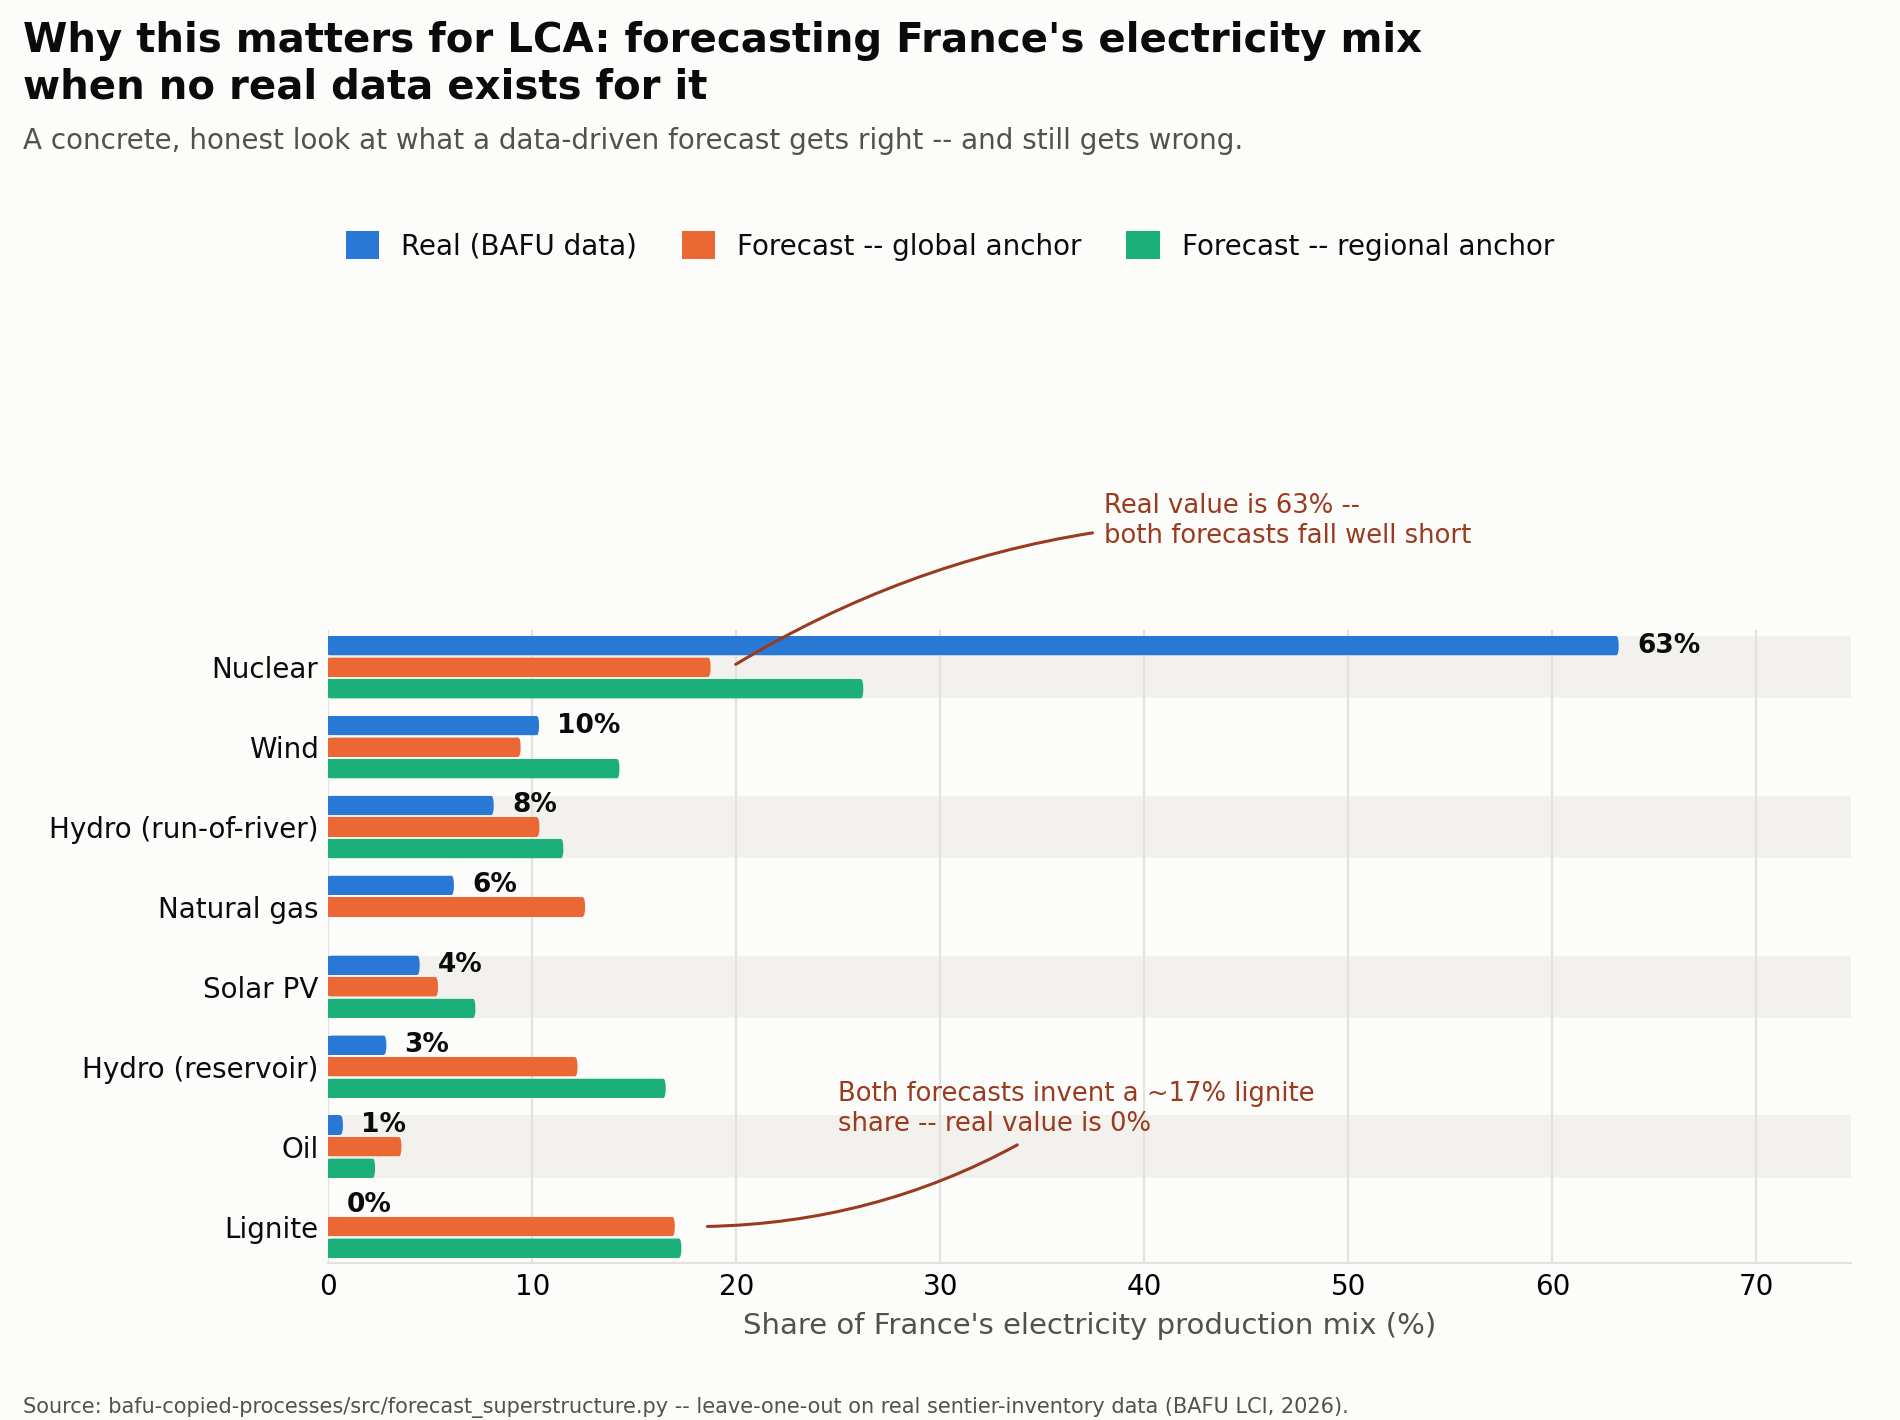
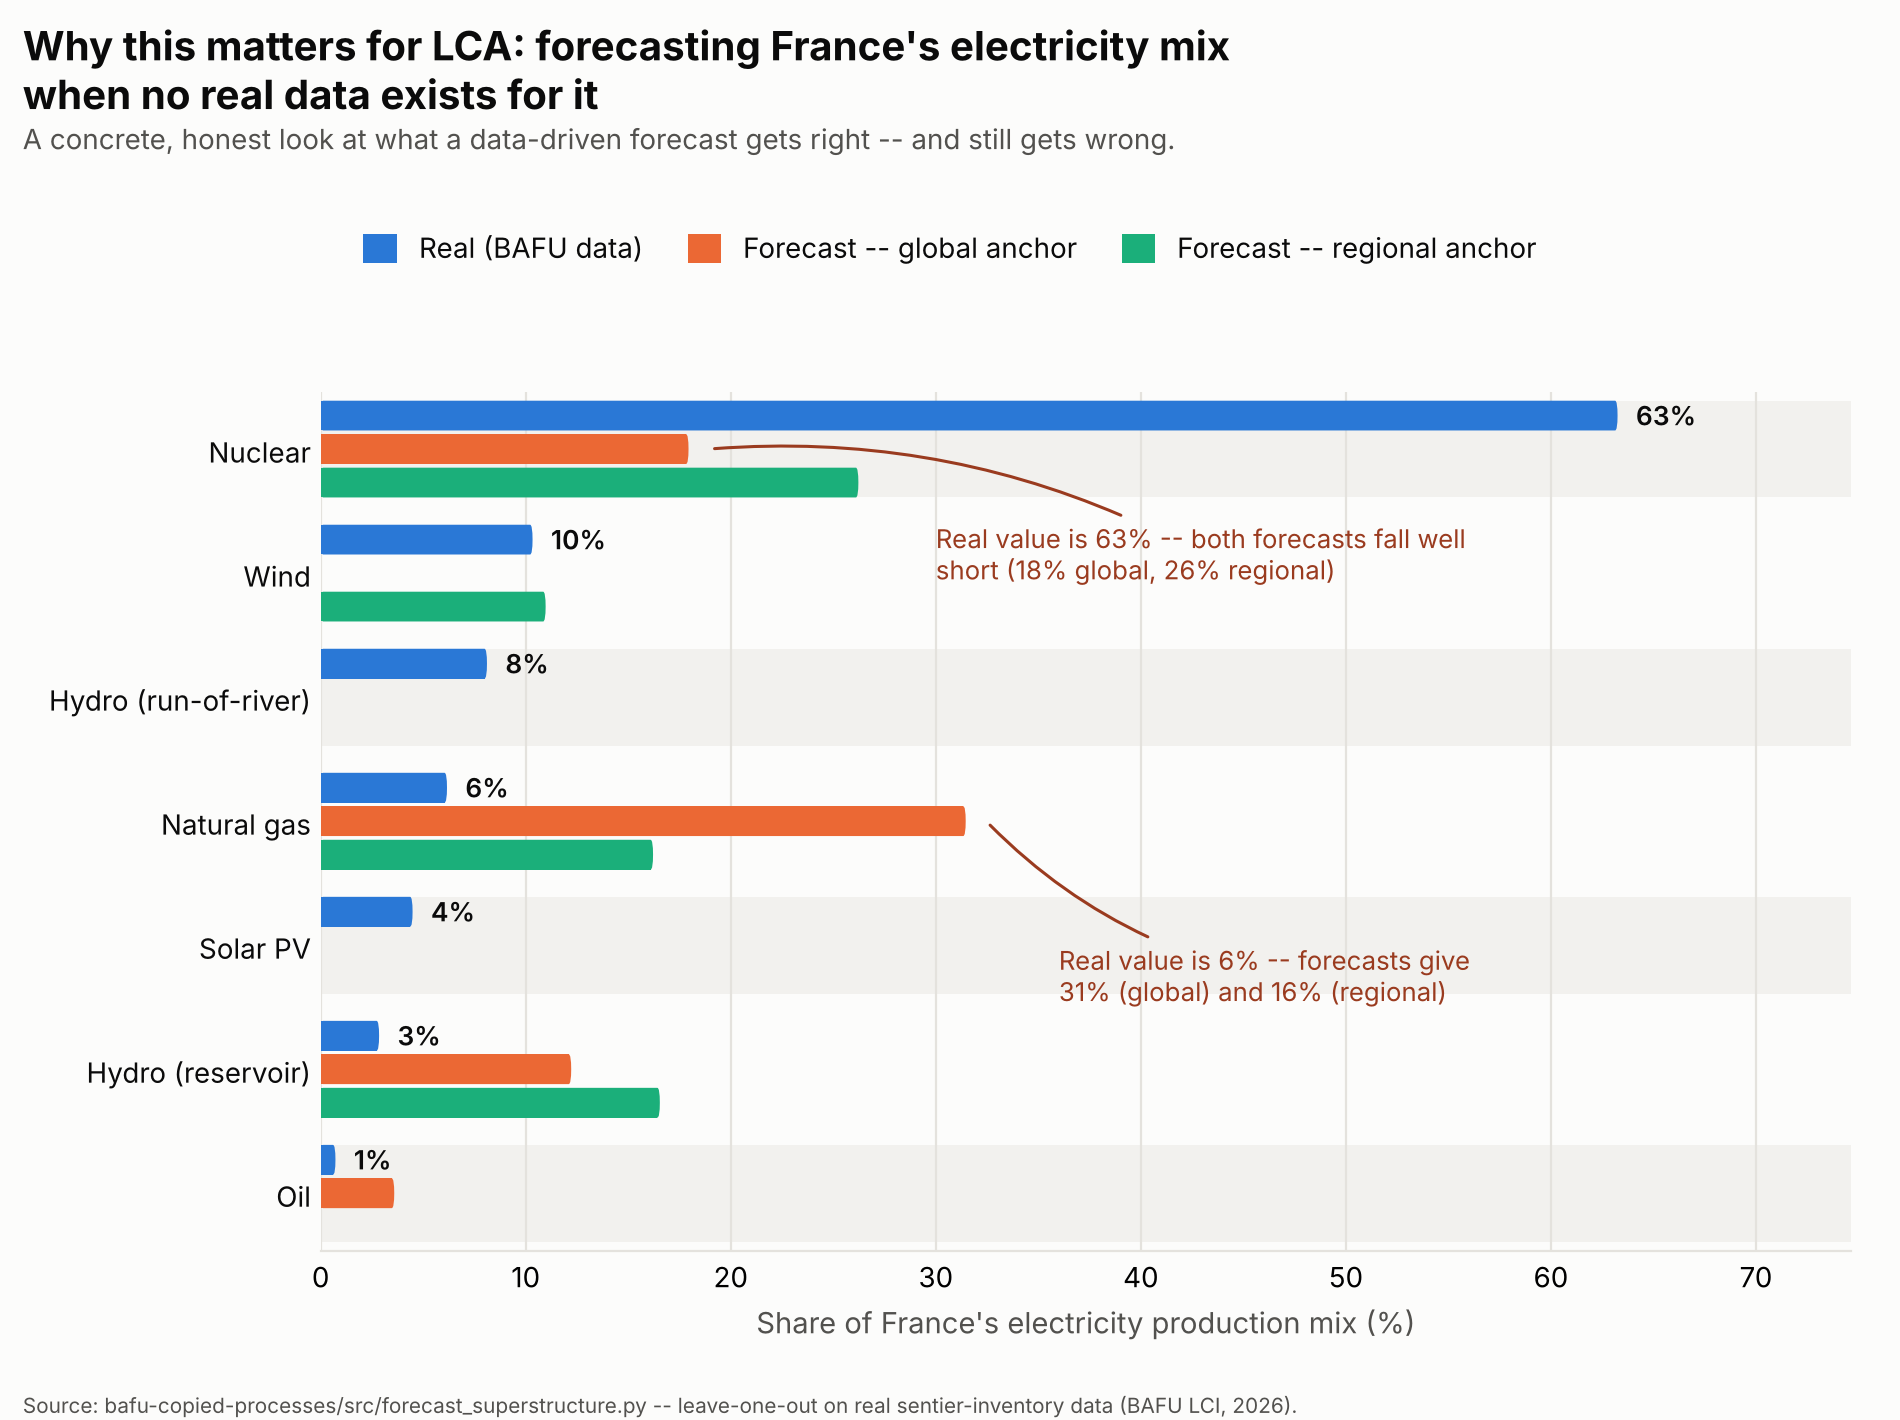
Regenerate France forecast chart with corrected scoring
Callout numbers are now computed from the forecast instead of written
in by hand; the old lignite callout no longer held (neither forecast
predicts lignite), so the second callout is natural gas. Rows nobody
uses are dropped.

diff --git a/hackathon/bafu-copied-processes/src/plot_lca_case.py b/hackathon/bafu-copied-processes/src/plot_lca_case.py
@@ -7,11 +7,12 @@ The story this chart tells:
     rest of the family).
   - If you had NO data for France (the situation this tool is meant for),
     a global-average-anchored forecast badly underestimates nuclear and
-    invents a natural-gas dependency that isn't really there.
-  - A regional-anchored forecast (same-region neighbors) gets closer on
-    nuclear and correctly drops the natural-gas share to zero -- but BOTH
-    forecasts invent an ~17% lignite share that doesn't exist in the real
-    data. That's an honest limitation, called out directly on the chart.
+    gives natural gas several times its real share.
+  - A regional-anchored forecast (same-region neighbors) gets somewhat
+    closer on both, but still falls far short on nuclear and still
+    overstates natural gas. That's an honest limitation, called out
+    directly on the chart (the callout numbers are computed from the
+    forecast, not written in by hand).
 
 This is what an LCA analyst actually cares about: not the F1/MAE numbers
 in the abstract, but "if my product's supply chain needs France's
@@ -102,11 +103,14 @@ def main(reference_product="Electricity, production mix", target_location="FR",
         name = row["flow_name"]
         if name not in LABELS:
             continue
+        regional = cr.loc[slot_id, "solved_amount"] if slot_id in cr.index else 0.0
+        if max(row["real_amount"], row["solved_amount"], regional) <= 0:
+            continue  # nobody uses it -- an empty row tells the reader nothing
         rows.append({
             "label": LABELS[name],
             "real": row["real_amount"],
             "global": row["solved_amount"],
-            "regional": cr.loc[slot_id, "solved_amount"] if slot_id in cr.index else 0.0,
+            "regional": regional,
         })
     rows.sort(key=lambda d: d["real"], reverse=True)
 
@@ -159,21 +163,23 @@ def main(reference_product="Electricity, production mix", target_location="FR",
 
     # --- Two callouts carry the honest story, right where the eye already is ---
     nuclear_i = labels.index("Nuclear")
-    lignite_i = labels.index("Lignite")
-    y_nuclear, y_lignite = y[nuclear_i], y[lignite_i]
+    gas_i = labels.index("Natural gas")
+    y_nuclear, y_gas = y[nuclear_i], y[gas_i]
 
     ax.annotate(
-        "Real value is 63% --\nboth forecasts fall well short",
+        f"Real value is {real_vals[nuclear_i]:.0f}% -- both forecasts fall well\n"
+        f"short ({global_vals[nuclear_i]:.0f}% global, {regional_vals[nuclear_i]:.0f}% regional)",
         xy=(global_vals[nuclear_i] + 1, y_nuclear),
-        xytext=(38, y_nuclear + 1.55),
+        xytext=(30, y_nuclear - 1.05),
         fontsize=9.3, color=COLOR_CALLOUT, ha="left",
         arrowprops=dict(arrowstyle="-", color=COLOR_CALLOUT, lw=1.1,
                          connectionstyle="arc3,rad=0.15"),
     )
     ax.annotate(
-        "Both forecasts invent a ~17% lignite\nshare -- real value is 0%",
-        xy=(max(global_vals[lignite_i], regional_vals[lignite_i]) + 1, y_lignite),
-        xytext=(25, y_lignite + 1.2),
+        f"Real value is {real_vals[gas_i]:.0f}% -- forecasts give\n"
+        f"{global_vals[gas_i]:.0f}% (global) and {regional_vals[gas_i]:.0f}% (regional)",
+        xy=(max(global_vals[gas_i], regional_vals[gas_i]) + 1, y_gas),
+        xytext=(36, y_gas - 1.45),
         fontsize=9.3, color=COLOR_CALLOUT, ha="left",
         arrowprops=dict(arrowstyle="-", color=COLOR_CALLOUT, lw=1.1,
                          connectionstyle="arc3,rad=-0.15"),
@@ -208,7 +214,7 @@ def main(reference_product="Electricity, production mix", target_location="FR",
         fontsize=7.5, color=COLOR_MUTED,
     )
 
-    fig.tight_layout(rect=[0.01, 0.035, 0.99, 0.80])
+    fig.tight_layout(rect=[0.01, 0.035, 0.99, 0.835])
 
     out_path = out_path or os.path.join(THIS_DIR, "..", "france_lca_case.png")
     out_path = os.path.abspath(out_path)
